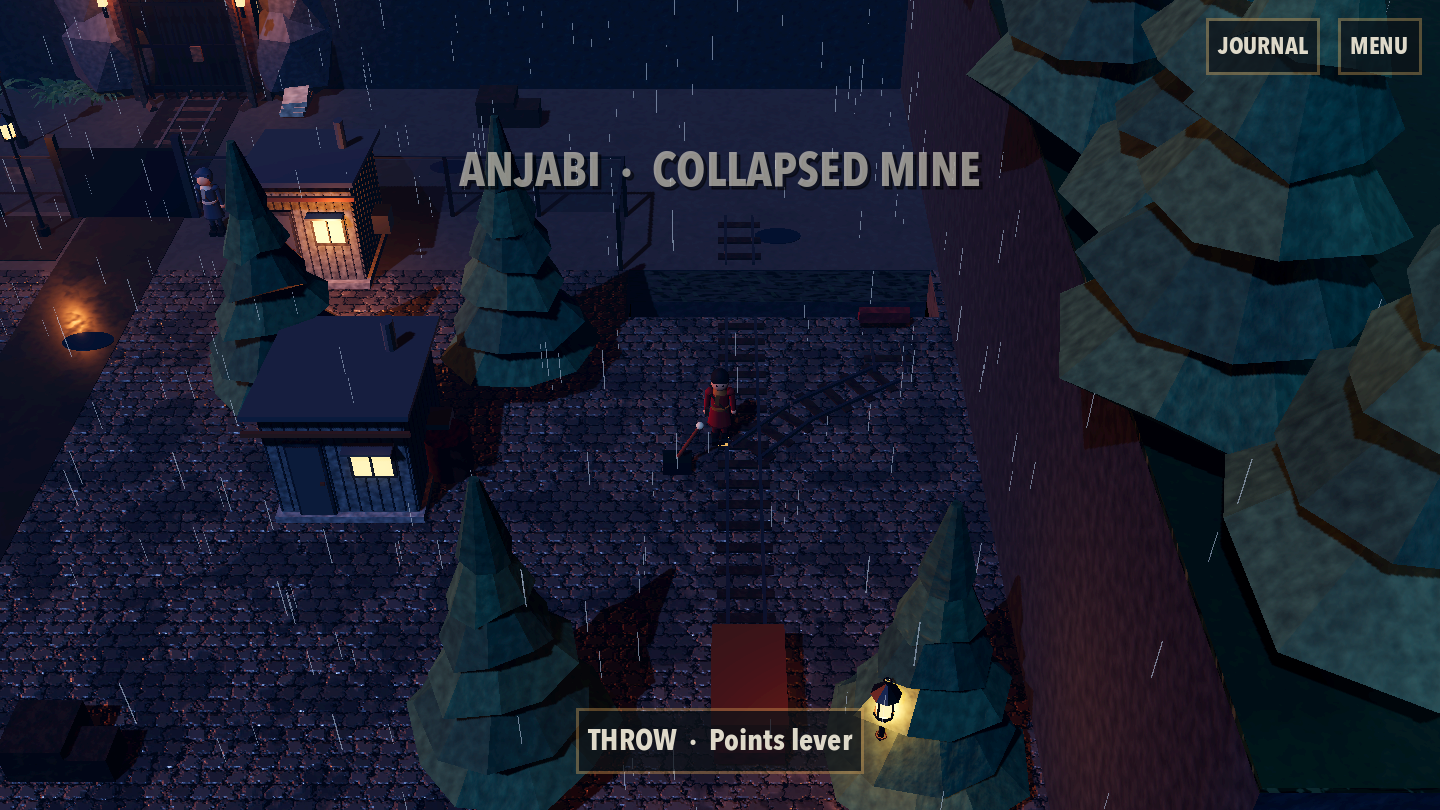
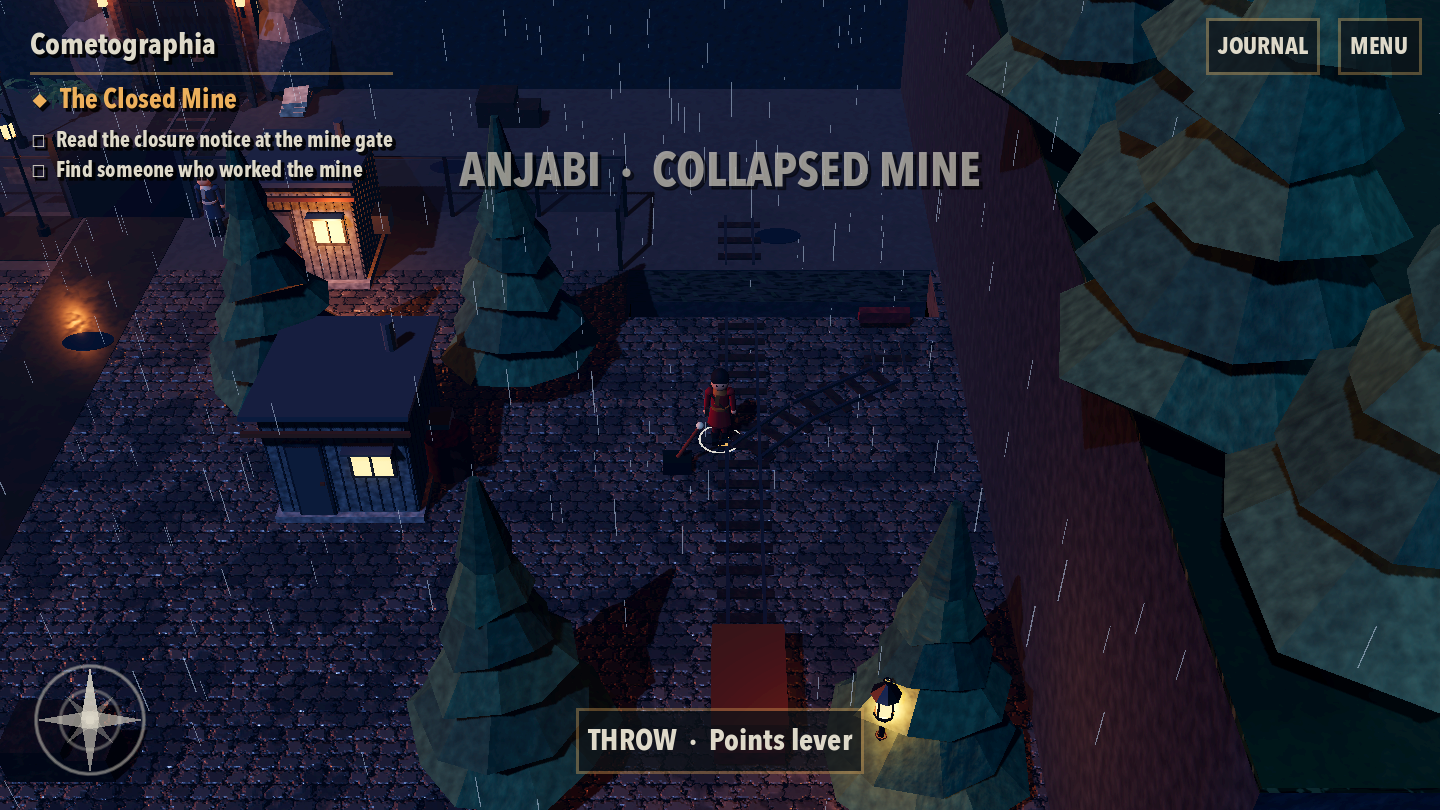
Aesthetic pass 5: quest tracker, compass, player ring; quest title from the director's key art

Changed region(s): [[0.0, 0.0309, 0.2812, 0.2469], [0.0, 0.8025, 0.125, 0.9568]]

diff --git a/PROJECT_LOG.md b/PROJECT_LOG.md
@@ -2,7 +2,7 @@
 
 Running log. Newest entry at the bottom of the Changelog; the sections above it are
 kept current so the project can be understood from this file alone.
-Last updated: 2026-11-15 (entry 10: iOS export prepared, not built).
+Last updated: 2026-11-15 (AAA aesthetic passes 1–5).
 
 ## 1. What this is
 
@@ -438,4 +438,24 @@ rails), `gondola` (tram cabin), `pine`, `fern`.
   0.6–1.05, so puddles covered almost everything and the sea was all foam; both shaders
   now remap it (`nz()`). Wet sheen raised, puddles patchy, fewer on sand and grass.
 - Tests 96/96.
+
+### Pass 5 — HUD and finishing
+- `ui/quest_tracker.gd` (`QuestTracker`): top-left "Cometographia" title, rule, the open
+  investigation as "◆ title" and its active/done objectives as ☐/☑, refreshed from
+  `Journal.updated`. Journal notifications moved to the top centre.
+- `ui/compass.gd` (`Compass`): eight-point compass rose, bottom-left (north is always up).
+- Soft ring under the player's feet.
+- Investigation title changed to "The Closed Mine" to match the director's key art
+  (`data/journal/quests.json`); objectives unchanged.
+- Tests 96/96.
+
+### State after the passes, and what is still short of the key art
+- Matches: wet cobbles with mirrored lamplight, warm-against-cold lighting, rain, Quonset
+  pods, domed tavern with sign, banners, awning café, lantern posts, mine portal with
+  CLOSED sign and guard, ferns, planters, townsfolk, tram gondolas, HUD layout.
+- Still short: no cobbled stairs with step risers in the town (walkways are slopes);
+  terrain is a 1 m grid so some edges stay angular; characters are primitives (no rigged
+  model, no faces); no flower beds on the ground, no ivy on walls; no distant sunset sky
+  or Imperial city silhouette on the horizon (camera looks down); no rain splashes or
+  dripping eaves. iPhone performance after these passes is not measured.
 
